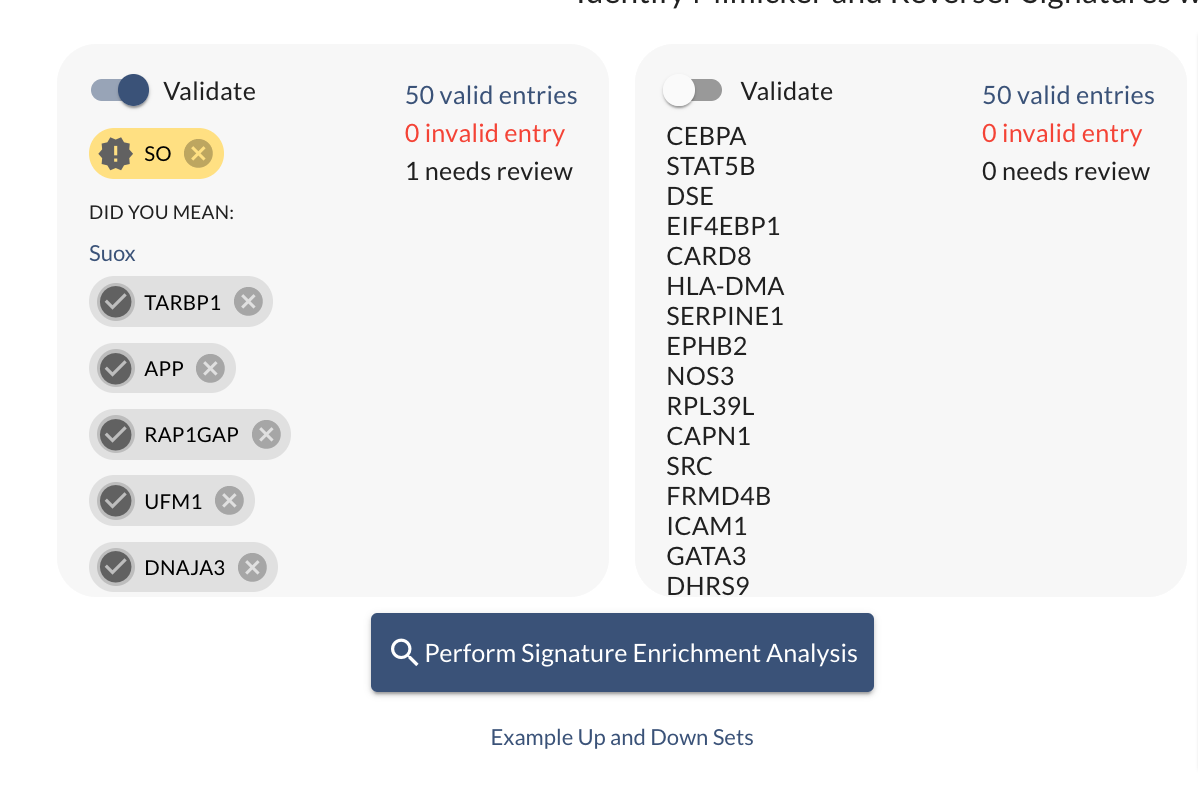
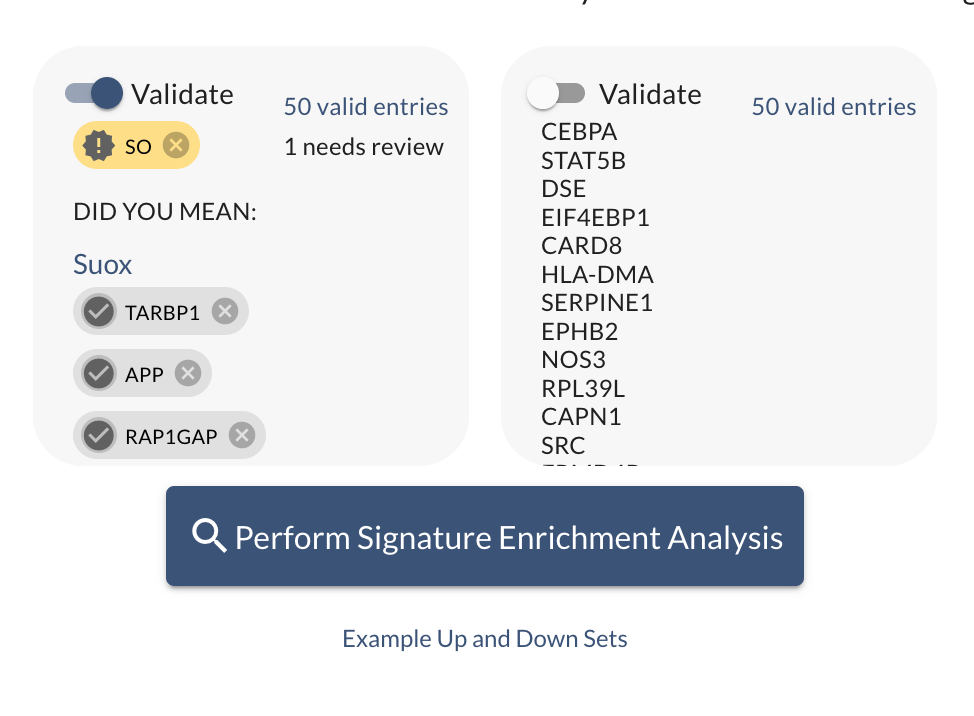
Changed font and images

diff --git a/components/Search/MetadataSearchComponent.js b/components/Search/MetadataSearchComponent.js
@@ -85,7 +85,7 @@ export const MetadataSearchComponent = (props) => {
 							<Button variant="text" color="primary" style={{textTransform: "none"}} onClick={()=>{
 								if (search_terms.indexOf(v)<0) onSearch([v])
 							}}>
-								<Typography variant="caption">{v}</Typography>
+								<Typography variant="subtitle2">{v}</Typography>
 							</Button>
 							{i === search_examples.length - 1 ? null: "/"}
 						</React.Fragment>

diff --git a/components/MetadataPage/LibraryEnrichment.js b/components/MetadataPage/LibraryEnrichment.js
@@ -903,6 +903,7 @@ class LibraryEnrichment extends React.PureComponent {
 									}
 								]}
 								value={this.state.visualization}
+								textVariant="caption"
 								handleChange={(t)=>this.setState({visualization: t.value},()=>{
 									if (t.value === 'bar') this.reset_scatter_plot()
 								})}

diff --git a/components/Search/SignatureSearchComponent.js b/components/Search/SignatureSearchComponent.js
@@ -38,7 +38,7 @@ const Examples = (props) => {
 					onAdd(ex.input.down_entities, "down_entities")
 				}
 			}}>
-				<Typography variant="caption">{ex.label}</Typography>
+				<Typography variant="subtitle2">{ex.label}</Typography>
 			</Button>
 		)
 		if (ex.link!==undefined){
